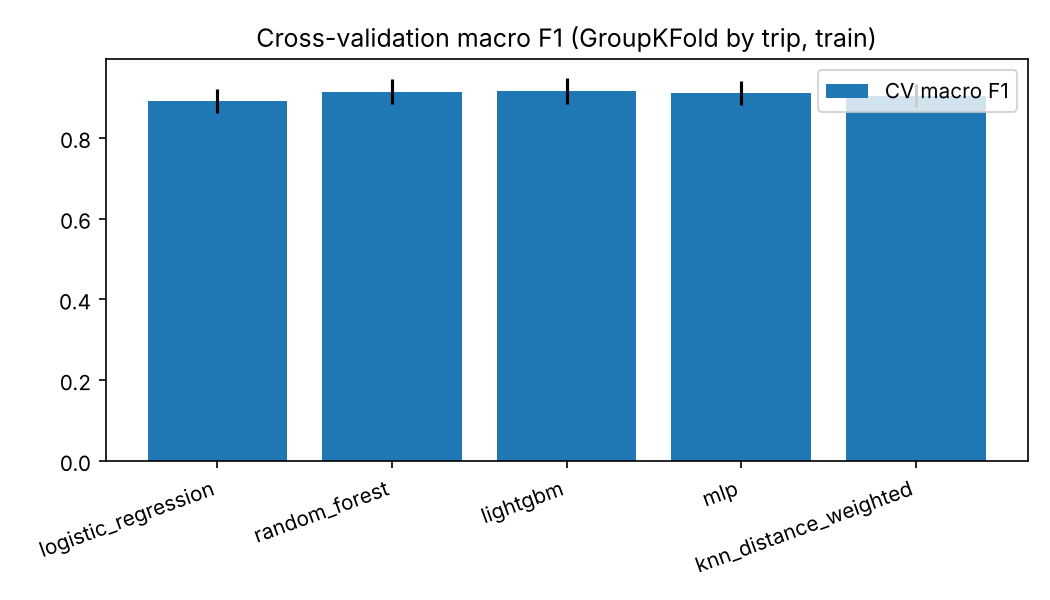
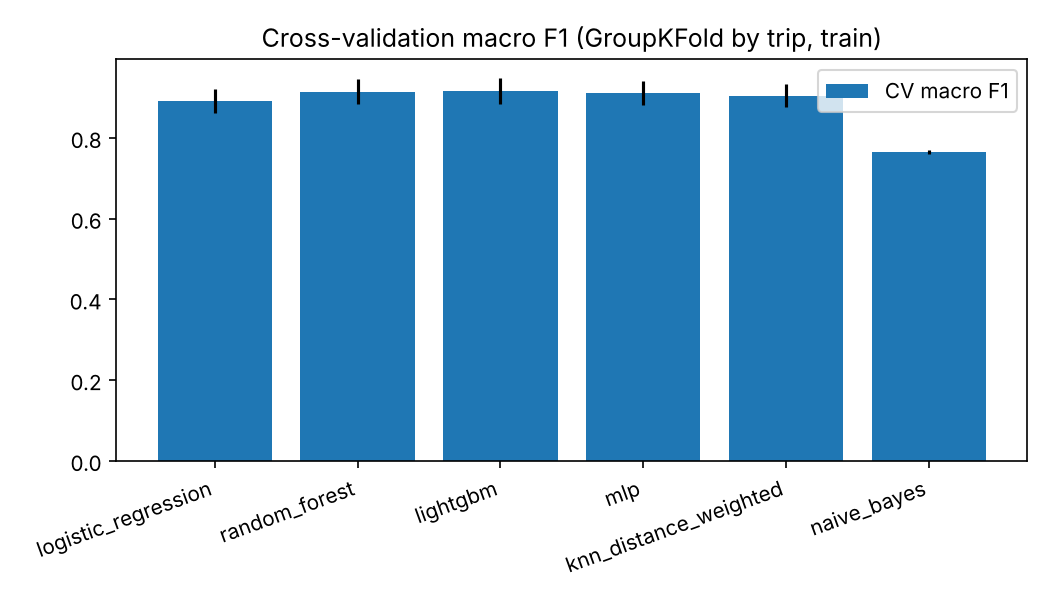
Add Gaussian Naive Bayes model (train CV, HMM eval, UI bundle)
Claude-Session: https://claude.ai/code/session_01Pd7VVxQ9LVhVNmfC3V7kQa

diff --git a/pathsnap/models.py b/pathsnap/models.py
@@ -9,6 +9,7 @@ output P(this candidate is the arc the car was really on).
 from lightgbm import LGBMClassifier
 from sklearn.ensemble import RandomForestClassifier
 from sklearn.linear_model import LogisticRegression
+from sklearn.naive_bayes import GaussianNB
 from sklearn.neighbors import KNeighborsClassifier
 from sklearn.neural_network import MLPClassifier
 from sklearn.pipeline import Pipeline
@@ -89,6 +90,22 @@ def knn_distance_weighted(n_neighbors=25):
     ])
 
 
+def naive_bayes(var_smoothing=1e-9):
+    """Gaussian Naive Bayes: a probabilistic baseline that treats features as independent.
+
+    For each class (arc / not arc) it learns a mean and variance per feature, then
+    multiplies the per-feature likelihoods ("naive" = independence assumption). Our features
+    are strongly correlated (distance to the arc vs. distance rank), so its probabilities
+    are over-confident; it is included to show what that assumption costs. Scaling does not
+    change the Gaussian fit, but var_smoothing is relative to the largest feature variance,
+    so scaling makes that stabiliser behave the same for every feature.
+    """
+    return Pipeline([
+        ("scale", StandardScaler()),
+        ("clf", GaussianNB(var_smoothing=var_smoothing)),
+    ])
+
+
 # Models that train on a fixed random subsample of GPS *points* (all candidate rows of a
 # chosen point are kept together) so the run stays affordable. Value = max training points
 # per fit. Chosen by compute budget, not by looking at results. Validation is never sampled.
@@ -103,12 +120,14 @@ def get_models():
         "lightgbm": ("Boosting", lightgbm()),
         "mlp": ("Neural network", mlp()),
         "knn_distance_weighted": ("Instance-based", knn_distance_weighted()),
+        "naive_bayes": ("Probabilistic (generative)", naive_bayes()),
     }
 
 
 FACTORIES = {
     "logistic_regression": logistic_regression, "random_forest": random_forest,
     "lightgbm": lightgbm, "mlp": mlp, "knn_distance_weighted": knn_distance_weighted,
+    "naive_bayes": naive_bayes,
 }
 
 

diff --git a/scripts/train_models.py b/scripts/train_models.py
@@ -39,7 +39,7 @@ THRESHOLD = 0.5  # only for F1 / confusion matrix; Top-1 and the HMM use raw pro
 OUT = RESULTS_DIR / "models"
 KEY_PARAMS = ("C", "class_weight", "n_estimators", "max_depth", "learning_rate", "num_leaves",
               "min_child_samples", "hidden_layer_sizes", "alpha", "n_neighbors", "weights",
-              "max_features", "min_samples_leaf")
+              "max_features", "min_samples_leaf", "var_smoothing")
 
 
 def labelled(df):

diff --git a/results/models/EXPERIMENTS.md b/results/models/EXPERIMENTS.md
@@ -66,3 +66,28 @@ All development runs use train only (GroupKFold(5) by trip_id, SEED=42). student
 - Command: `python scripts/train_models.py --models knn_distance_weighted` on the K=16 train table (1,862,764 labelled rows, 80 trips). Upserted into `model_comparison.csv` / `cv_folds.csv`; plots redrawn. All five rows of `model_comparison.csv` are now v2 (K=16).
 - KNN CV Top-1 0.8371 ± 0.0544 (v1 K=8: 0.8379), macro F1 0.9042, log loss 0.1762 (still the worst), train Top-1 0.9951 vs validation 0.8371: memorises, heavy overfit. Inference 472 ms per 1,000 rows (slowest).
 - Ranking unchanged: LightGBM 0.8520 > RF 0.8489 > MLP 0.8459 > LogReg 0.8395 > KNN 0.8371.
+
+## NB1. Gaussian Naive Bayes (untuned, train only)
+- Commands: `python scripts/train_models.py --models naive_bayes`, then `python scripts/hmm_eval.py --oof results/models/oof_naive_bayes.parquet` (its outputs were copied to `results/pipeline/naive_bayes/` so the shared LightGBM `hmm_*` files stay unchanged), then a bundle fit with `export_model.fit_bundle("naive_bayes", ...)` -> `artifacts/models/naive_bayes.joblib` (1.8 KB, reload check passed).
+- Date: 2026-11-18. Data: v2 train table (K=16), 1,862,764 labelled rows, 80 trips, GroupKFold(5) by trip_id, SEED=42. student_test not touched and not run.
+- What it is, simply: for each class ("this arc is the true one" / "it is not") it learns a bell curve (mean and spread) for every feature, then multiplies the per-feature likelihoods together. Multiplying is only correct if the features are independent given the class (the "naive" assumption). Ours are not: distance to the arc, rank among candidates and distance relative to the best candidate all say nearly the same thing, so each fact is counted several times and the output probabilities become too extreme. The ranking within a point can survive this, the probability values do not.
+- Model: StandardScaler + GaussianNB(var_smoothing=1e-9). No hyperparameter search (it has one barely relevant knob), so it is not in the Optuna study.
+- Result (CV mean over 5 folds, `model_comparison.csv`):
+
+| model | CV Top-1 | CV macro F1 | CV log loss | train Top-1 | OOF route continuity |
+|---|---|---|---|---|---|
+| naive_bayes | 0.8024 ± 0.0379 | 0.7644 | 0.8410 | 0.8036 | 0.9132 |
+| lightgbm (reference, see `model_comparison.csv`) | 0.8520 ± 0.0580 | 0.9157 | n/a here | n/a | n/a |
+
+- Reading: lowest Top-1 of the six models (-0.050 vs LightGBM, bigger than the other gaps) and by far the worst log loss (0.841 vs about 0.11-0.18 for the rest), which is the over-confidence described above. Train and validation Top-1 are almost equal (0.8036 vs 0.8024), so it underfits (too rigid) rather than overfits. OOF precision (macro) is 0.718 against recall 0.903: it flags too many non-true candidates as positive. It is the fastest to fit (0.8 s per fold) and tiny to store.
+- Classifier + HMM (`results/pipeline/naive_bayes/hmm_comparison.csv`, HMM parameters re-fitted on NB's own OOF probabilities, grid in `hmm_grid.csv`, chosen beta=15, floor=50, emission_weight=0.03):
+
+| method | Top-1 (pooled) | route continuity |
+|---|---|---|
+| classifier only (NB) | 0.8020 | 0.9325 |
+| classifier + HMM (NB) | 0.9369 | 0.9799 |
+| distance + HMM (no classifier) | 0.9422 | 0.9802 |
+| classifier + HMM (tuned LightGBM, reference, E5) | 0.9510 | 0.9806 |
+
+- Reading: the HMM lifts NB by +0.135, but the result is below the distance-only HMM (0.9422): NB's over-confident probabilities are not better evidence than plain distance, and the fit picked the smallest emission weight (0.03) on the grid edge, i.e. it wants to trust NB as little as allowed. NB is a useful low baseline for the report, not a candidate for the final model.
+- The bundle `artifacts/models/naive_bayes.joblib` carries these NB-specific hmm_params (the other per-model bundles carry the LightGBM-fitted ones). Smoke test: `pipeline.predict_trip` on train trip 4 returns a prediction for all 1,064 points.
